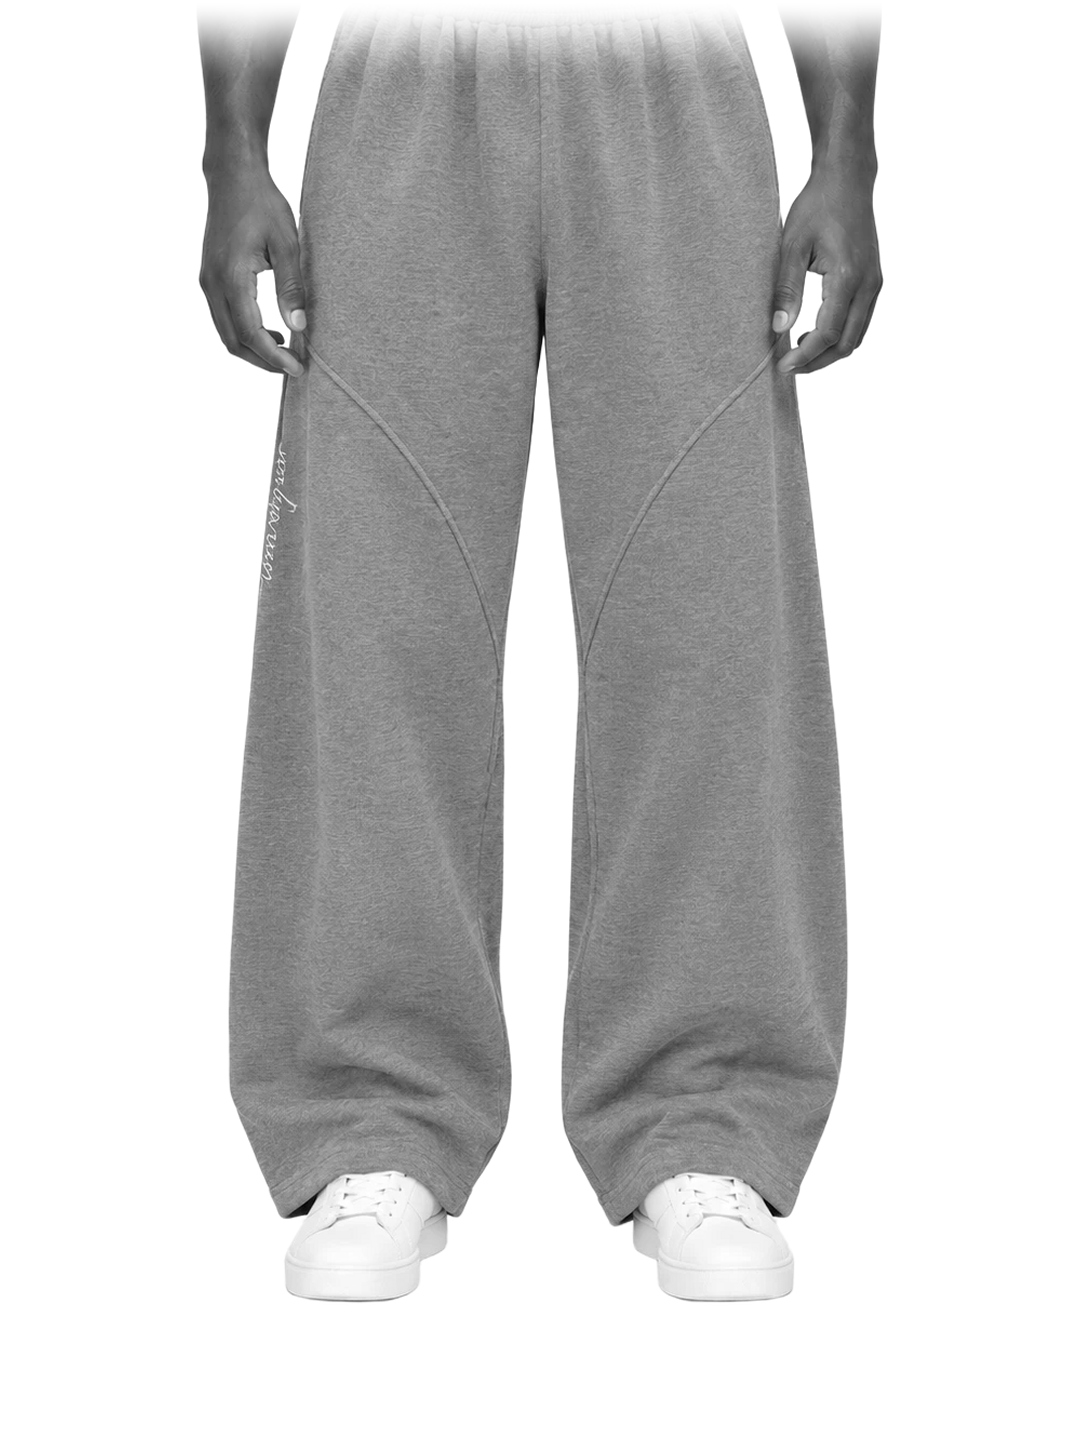
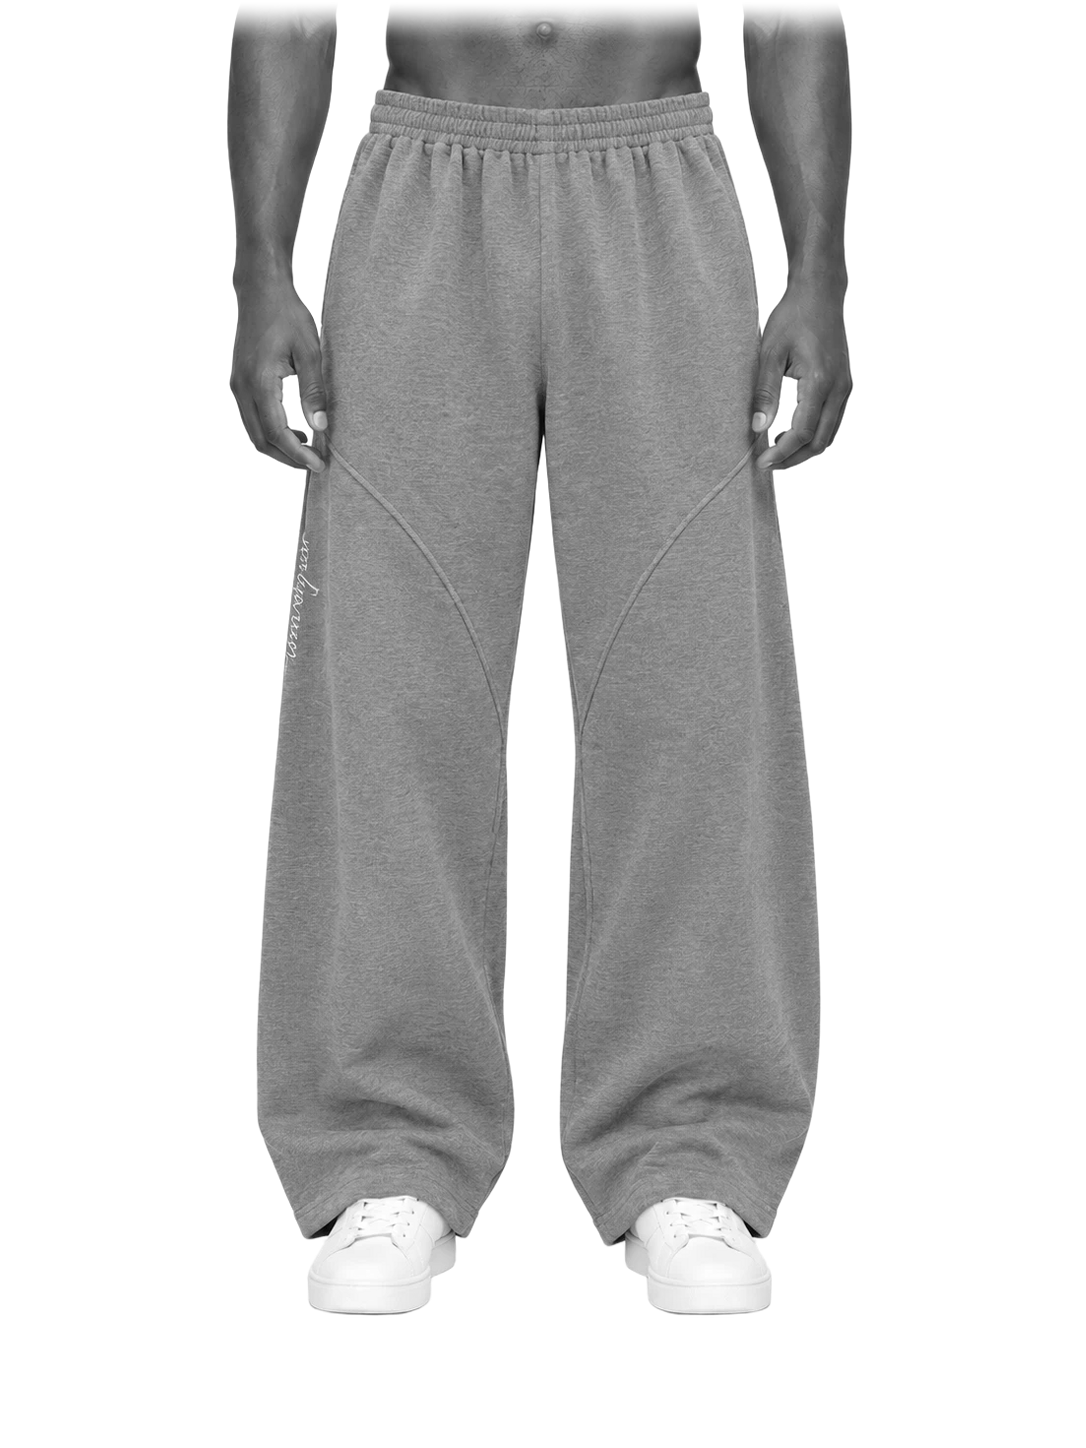
Pants photos: fade on bare skin only, never on the pants
Stop cropping every photo to the tightest framing (it cut the skin band off
four of five). Each photo's fade ends 64px (>= 16 CSS px at every width)
above its own waistband; measurements in aligned/fade-zones.json.

Claude-Session: https://claude.ai/code/session_01R3uWXcqViHGtxVbGtajxeo

diff --git a/scripts/prepare-unknown-pants.py b/scripts/prepare-unknown-pants.py
@@ -18,10 +18,11 @@ name and rerun; nothing else changes.
    once aligned, so all of them are cropped to the area every photo covers (keeping 3:4, centred on
    the body) and written back at the source size (1086 x 1448) to aligned/<name>.png.
 4. Baked effects (so the browser never filters or masks while animating; measured to remove the
-   dropped frames during swaps): the top 5.7% fades to transparent (smoothstep) (the torso fades out instead of
+   dropped frames during swaps): the top fades to transparent on bare skin only (fade zone rule, below) (the torso fades out instead of
    ending in a hard line), and every pair except the base also gets a greyscale copy,
    aligned/<name>-grey.png, used for the peek and the ghost.
 """
+import json
 import subprocess
 import sys
 from pathlib import Path
@@ -32,10 +33,36 @@ from PIL import Image
 DIR = Path("assets/products-src/unknown/pants")
 BASE = "model-base"
 OUT_W, OUT_H = 1086, 1448
-# share of the height that fades in from the top edge. Smoothstep (soft at both ends); its 10-90%
-# span is 0.61 x FADE x height = 3.9% of the model's visible height, as measured on the reference
-# (reference/unknown/MOTION.md, "v3: crop edge"). Was a 9% linear ramp.
-FADE = 0.057
+# Fade zone rule (brief: the fade sits on bare skin only and never covers the pants): every photo
+# gets a smoothstep fade that ENDS SAFE px above the top of its own waistband and starts no higher
+# than its own top edge, at most FADE_LEN long. SAFE = 64 output px = 16 CSS px when the 3:4 frame is
+# 362 CSS px tall (the smallest frame at 360 wide); more on every larger screen. Below the fade the
+# body is fully opaque, so every pair shows the same 64px band of clear skin above its waistband.
+# FADE_LEN = 84 px is the reference's fade (10-90% = 3.9% of the visible height); a photo with less
+# skin above its waistband gets a shorter fade (see fade-zones.json and the pants HANDOFF).
+SAFE = 64
+FADE_LEN = 84
+
+
+def _lab(rgb):
+    rgb = rgb / 255.0
+    rgb = np.where(rgb > 0.04045, ((rgb + 0.055) / 1.055) ** 2.4, rgb / 12.92)
+    m = np.array([[0.4124, 0.3576, 0.1805], [0.2126, 0.7152, 0.0722], [0.0193, 0.1192, 0.9505]])
+    xyz = rgb @ m.T / np.array([0.9505, 1, 1.089])
+    f = np.where(xyz > 0.008856, np.cbrt(xyz), 7.787 * xyz + 16 / 116)
+    return np.stack([116 * f[..., 1] - 16, 500 * (f[..., 0] - f[..., 1]), 200 * (f[..., 1] - f[..., 2])], -1)
+
+
+def waistband(name):
+    """Top of the waistband in the source photo (px): walking down the centre of the torso, the
+    first of 6 rows where most of a 100px band is no longer the skin colour of the top rows."""
+    a = np.asarray(Image.open(DIR / f"{name}.webp").convert("RGB")).astype(float)
+    alpha = np.asarray(Image.open(DIR / "cut" / f"{name}.png").getchannel("A"))
+    cx = int(np.median(np.nonzero(alpha[30] > 128)[0]))
+    band = _lab(a[:, cx - 50:cx + 50])
+    skin = np.median(band[10:40].reshape(-1, 3), 0)
+    off = (np.sqrt(((band - skin) ** 2).sum(-1)) > 20).mean(1)
+    return next(y for y in range(40, len(off) - 6) if all(off[y + i] > 0.6 for i in range(6)))
 
 
 def cut_one(name):
@@ -91,29 +118,44 @@ def main():
         flag = "  <- check this photo: framed very differently" if abs(s - 1) > 0.25 else ""
         print(f"{n:32} scale {s:.3f}  dx {fits[n][1]:+.0f}  dy {fits[n][2]:+.0f}{flag}")
 
-    # common crop in base px: the body runs off the top edge, so start where every photo has pixels
+    # frame in base px: the base photo's own frame (top 0). Photos framed tighter than the base start
+    # lower; each one's fade starts at its own top edge, so no photo shows a hard top line. (Cropping
+    # to the area every photo covers cut the skin band off four of the five photos.)
     h, w = OUT_H, OUT_W
-    top = max(0.0, *(dy for _, _, dy in fits.values()))
+    top = 0.0
     ch = h - top
     cw = ch * w / h
     left = bcx - cw / 2
     k = ch / h  # base px per output px
     print(f"common crop: top {top:.0f}px, {cw:.0f} x {ch:.0f} -> {w} x {h}")
 
+    zones = {}
     for n, im in imgs.items():
         s, dx, dy = fits[n]
+        # waistband top and the photo's own top edge, in output px
+        waist = (dy + s * waistband(n) - top) / k
+        own_top = max(0.0, (dy - top) / k)
+        end = waist - SAFE
+        start = max(own_top, end - FADE_LEN)
+        zones[n] = {"photo_top": round(own_top, 1), "fade_start": round(start, 1), "fade_end": round(end, 1),
+                    "waistband": round(waist, 1), "clear_skin": SAFE, "fade_len": round(end - start, 1),
+                    "short_by": round(max(0.0, FADE_LEN - (end - start)), 1)}
         # output px -> photo px; premultiplied alpha so the edges don't pick up the old backdrop
         out = im.convert("RGBa").transform(
             (w, h), Image.AFFINE, (k / s, 0, (left - dx) / s, 0, k / s, (top - dy) / s), resample=Image.BICUBIC
         ).convert("RGBA")
         a = np.asarray(out.getchannel("A")).astype(np.float32)
-        t = np.clip(np.arange(h) / (h * FADE), 0, 1)
+        t = np.clip((np.arange(h) - start) / max(1.0, end - start), 0, 1)
         ramp = (t * t * (3 - 2 * t))[:, None]
         out.putalpha(Image.fromarray((a * ramp).round().astype(np.uint8)))
         out.save(DIR / "aligned" / f"{n}.png")
         if n != BASE:
             grey = out.convert("LA").convert("RGBA")
             grey.save(DIR / "aligned" / f"{n}-grey.png")
+    (DIR / "aligned" / "fade-zones.json").write_text(json.dumps(zones, indent=1))
+    for n, z in zones.items():
+        print(f"{n:32} waistband {z['waistband']:6.1f}  fade {z['fade_start']:6.1f}-{z['fade_end']:6.1f}"
+              f" ({z['fade_len']:.0f}px, short by {z['short_by']:.0f})")
 
 
 if __name__ == "__main__":
